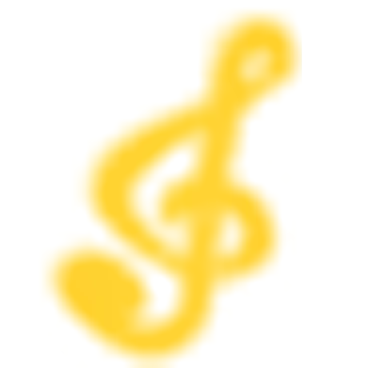
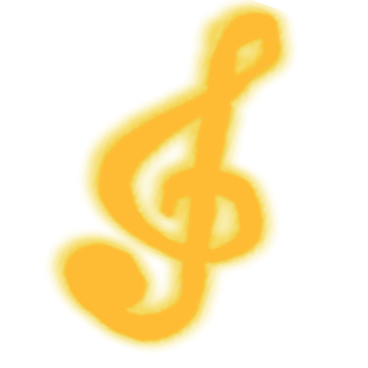
Manual sync 2026/08/02 周日  1:15:13.63

Changed region(s): [[0.1196, 0.0, 0.837, 1.0]]

diff --git a/Scripts/Cards/Yaaaaaa.cs b/Scripts/Cards/Yaaaaaa.cs
@@ -1,6 +1,7 @@
 using MegaCrit.Sts2.Core.Commands;
 using MegaCrit.Sts2.Core.Entities.Cards;
 using MegaCrit.Sts2.Core.GameActions.Multiplayer;
+using MegaCrit.Sts2.Core.Localization;
 using MegaCrit.Sts2.Core.Localization.DynamicVars;
 using MegaCrit.Sts2.Core.Models;
 using MegaCrit.Sts2.Core.ValueProps;
@@ -12,6 +13,13 @@ namespace SlayTheSpire2MGRMod.Cards;
 [RegisterCard(typeof(MgrCardPool), StableEntryStem = "yaaaaaa")]
 public sealed class Yaaaaaa : MgrCard
 {
+    public override string Title => IsUpgraded
+        ? new LocString(
+            "cards",
+            "SLAY_THE_SPIRE2_MGR_MOD_CARD_YAAAAAA.upgradedTitle")
+            .GetFormattedText()
+        : base.Title;
+
     protected override IEnumerable<DynamicVar> CanonicalVars =>
     [
         new DamageVar(7m, ValueProp.Move),
@@ -47,6 +55,6 @@ public sealed class Yaaaaaa : MgrCard
 
     protected override void OnUpgrade()
     {
-        DynamicVars.Cards.UpgradeValueBy(1m);
+        DynamicVars.Cards.UpgradeValueBy(2m);
     }
 }

diff --git a/docs/CARD_DESCRIPTION_STYLE_GUIDE.md b/docs/CARD_DESCRIPTION_STYLE_GUIDE.md
@@ -57,7 +57,7 @@
 ### 其他关键词
 
 - `固有`、`保留`、`虚无`、`消耗`等由 `CanonicalKeywords`、`AddKeyword` 和 `RemoveKeyword` 声明，交给原版渲染器自动放在最后一行。
-- 本地化的 `description` 与 `smartDescription` 不再手写这些自动关键词，否则游戏会显示两次。
+- 卡牌本地化的 `description` 不再手写这些自动关键词，否则游戏会显示两次。
 - `保留`、`虚无`、`消耗`同时存在两个或更多时，由 MGR 公共显示层尽量合并到同一末行，以减少纵向占用；升级前后遵循同一规则。
 - 其他多个关键词的最终渲染顺序服从原版关键词系统；不要在单卡文本中另造一套顺序。
 - 升级会获得或移除关键词时，只修改代码中的关键词，不使用 `IfUpgraded` 再显示一遍。
@@ -107,7 +107,9 @@
 - 数字变量名必须与 C# 中的 `DynamicVar` 键完全一致。例如代码是 `PowerVar<VulnerablePower>`，文本必须使用 `{VulnerablePower:diff()}`，不能简写为 `{Vulnerable:diff()}`。
 - 可以由变量表达的升级数值统一使用 `{变量:diff()}`，不要在正文里另写一遍升级说明。
 - 只有升级会改写句式或增删实际动作时，才使用 `{IfUpgraded:show:升级文本|基础文本}`；原生关键词的增删由代码负责。
-- `description` 表示基础预览，`smartDescription` 负责升级或战斗内条件文本；两者的信息顺序必须一致。
+- 当前《杀戮尖塔 2》的 `CardModel` 在普通查看、战斗牌堆查看和升级预览中都读取 `description`。升级分支与战斗内动态数字也必须写在 `description` 中，并由 `IfUpgraded`、动态变量和战斗上下文完成格式化。
+- `CardModel` 不读取卡牌条目的 `smartDescription`。MGR 卡牌本地化已移除该旧模板字段，新增或修改卡牌时不得再次添加。
+- `smartDescription` 只在明确支持它的模型中使用。典型例子是运行中的能力（Power）悬浮说明：可变实例使用 `smartDescription` 注入层数、持有者、目标和战斗变量；静态、不可变或显式使用普通说明的场景读取 `description`。
 - 选择提示只说明玩家正在选择什么，不重复整张卡的效果。
 
 ## 6. 去重检查
@@ -125,6 +127,6 @@
 
 ## 7. 实施约定
 
-- 每次新增或修改卡牌时，代码、中文 `description`、中文 `smartDescription` 和 `docs/MGR_content_registry.json` 必须一起检查。
+- 每次新增或修改卡牌时，代码、中文 `description` 和 `docs/MGR_content_registry.json` 必须一起检查；卡牌的 `smartDescription` 不再作为维护项。
 - 暂时停用的卡牌设为 `status: 0` 并取消游戏注册；不再为其维护活动图片。
 - 本规范只约束卡牌文字与显示顺序，不得借格式调整改动演奏队列的战斗内位置、动画、悬停或结算链路。
